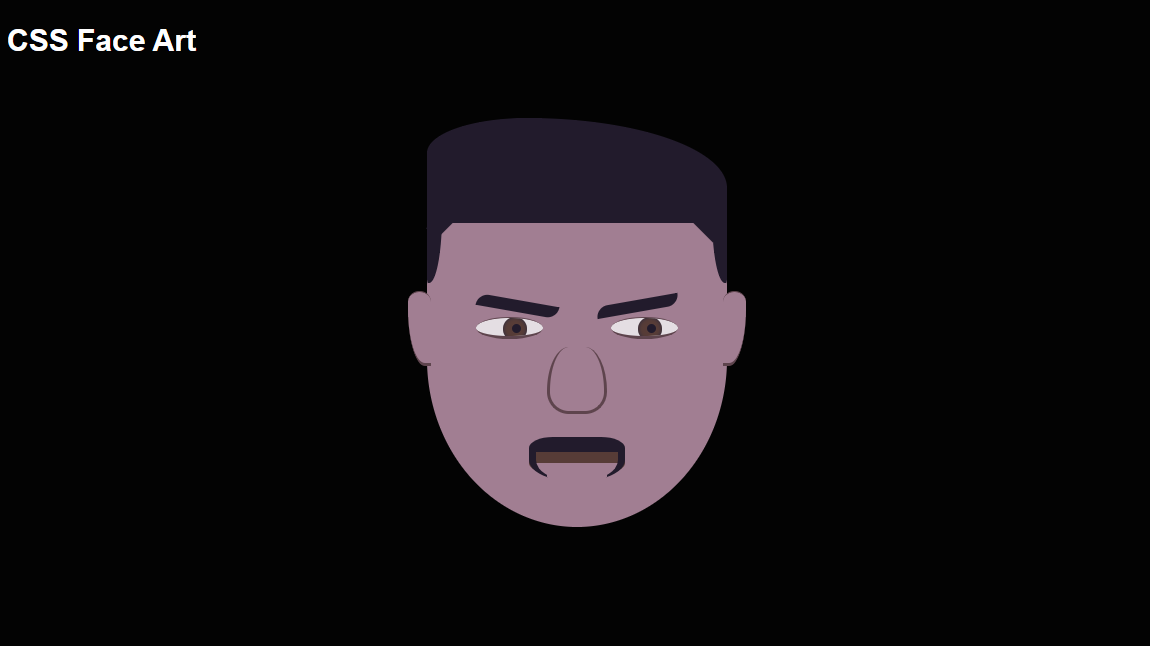
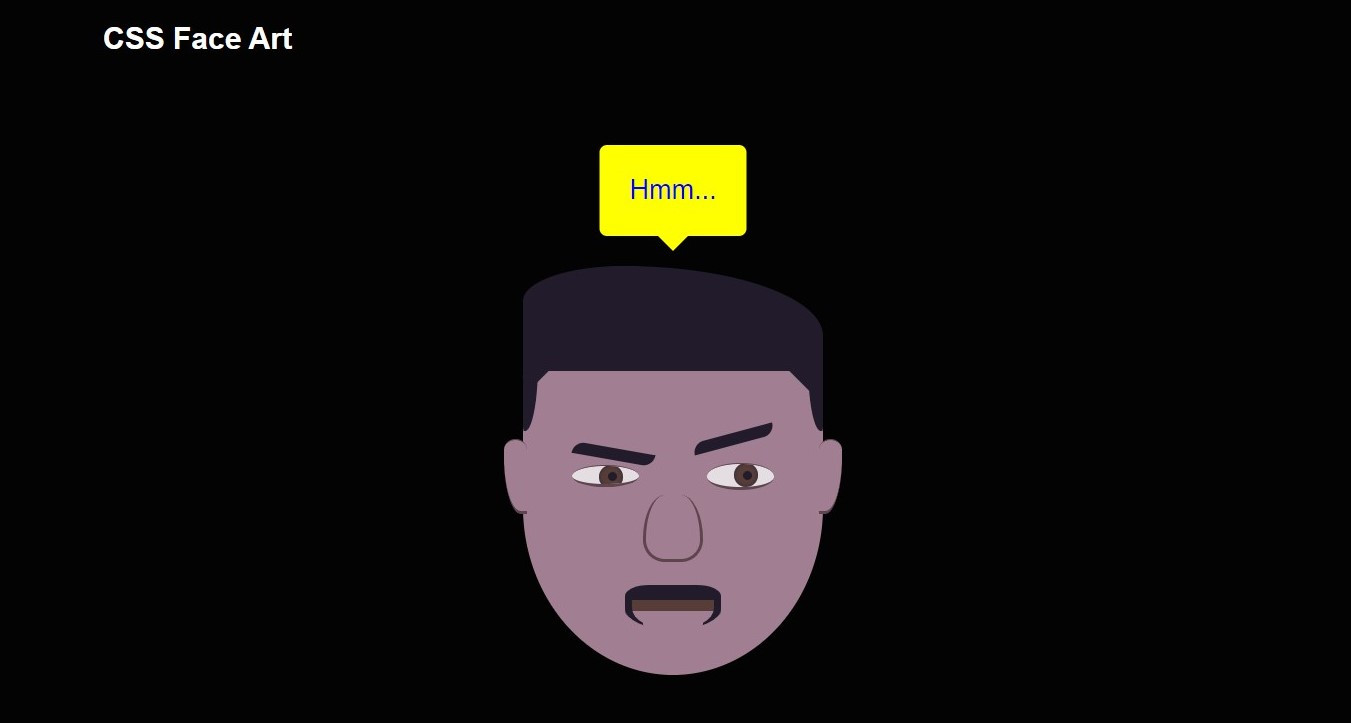
👨Face Art tooltip

diff --git a/CSS Face Art/index.html b/CSS Face Art/index.html
@@ -4,6 +4,7 @@
   <meta charset="UTF-8">
   <meta http-equiv="X-UA-Compatible" content="IE=edge">
   <meta name="viewport" content="width=device-width, initial-scale=1.0">
+  <link rel="stylesheet" href="../CSS Only Tooltips/style.css">
   <link rel="stylesheet" href="style.css">
   <title>CSS Face Art</title>
 </head>
@@ -11,7 +12,7 @@
   <header>CSS Face Art</header>
   <main>
     <section class="face">
-      <div class="head">
+      <div class="head tool-tip" data-tooltip='Hmm...'>
         <div class="eyebrows">
           <div class="eyebrow"></div>
           <div class="eyebrow"></div>

diff --git a/CSS Face Art/style.css b/CSS Face Art/style.css
@@ -1,3 +1,4 @@
+
 *{
   margin : 0;
   padding: 0;
@@ -246,4 +247,10 @@ main,.face,.head,.head > *{
 .head:hover .eyes .eye:last-child{
   transition: all .6s linear;
   height: 18px;
+}
+
+/* Tooltip modifications  */
+.tool-tip::after,
+.tool-tip::before {
+  transition: 0.8s transform;
 }
